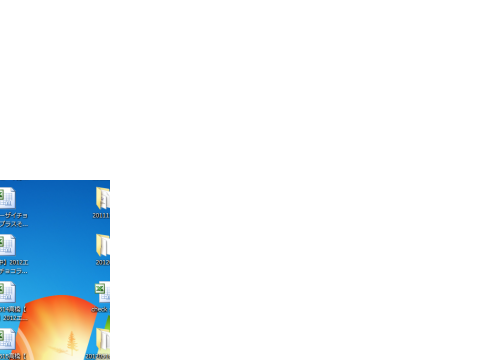
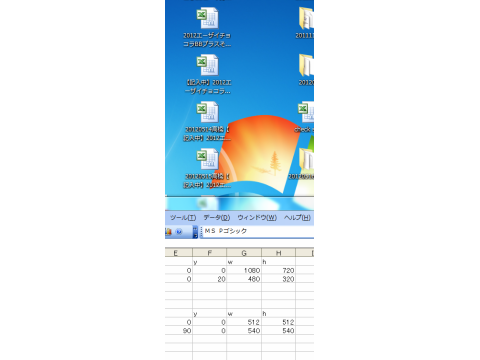
fix priority_long_leftup, middle, rightdown

diff --git a/pic_zoomer_test.rb b/pic_zoomer_test.rb
@@ -281,7 +281,7 @@ canvas.fill_rect [0, 0, 480, 360]
 image = Imlib2::Image.load('tatenaga.png')
 canvas.blend_image!(image, ret["inx"], ret["iny"], ret["inw"], ret["inh"], ret["outx"], ret["outy"], ret["outw"], ret["outh"])
 canvas.save("/home/ttakahashi/Study-Ruby-Imlib2/pic/test_tate_priority_long_pos_rightdown.png")
-    assert_equal({"inx" => 0, "iny" => 0, "inw" => 312, "inh" => 751, "outx" => 331, "outy" => 0, "outw" => 149, "outh" => 360}, ret)
+    assert_equal({"inx" => 0, "iny" => 0, "inw" => 312, "inh" => 751, "outx" => 330, "outy" => 0, "outw" => 149, "outh" => 360}, ret)
   end
   
   def test_tate_fill
